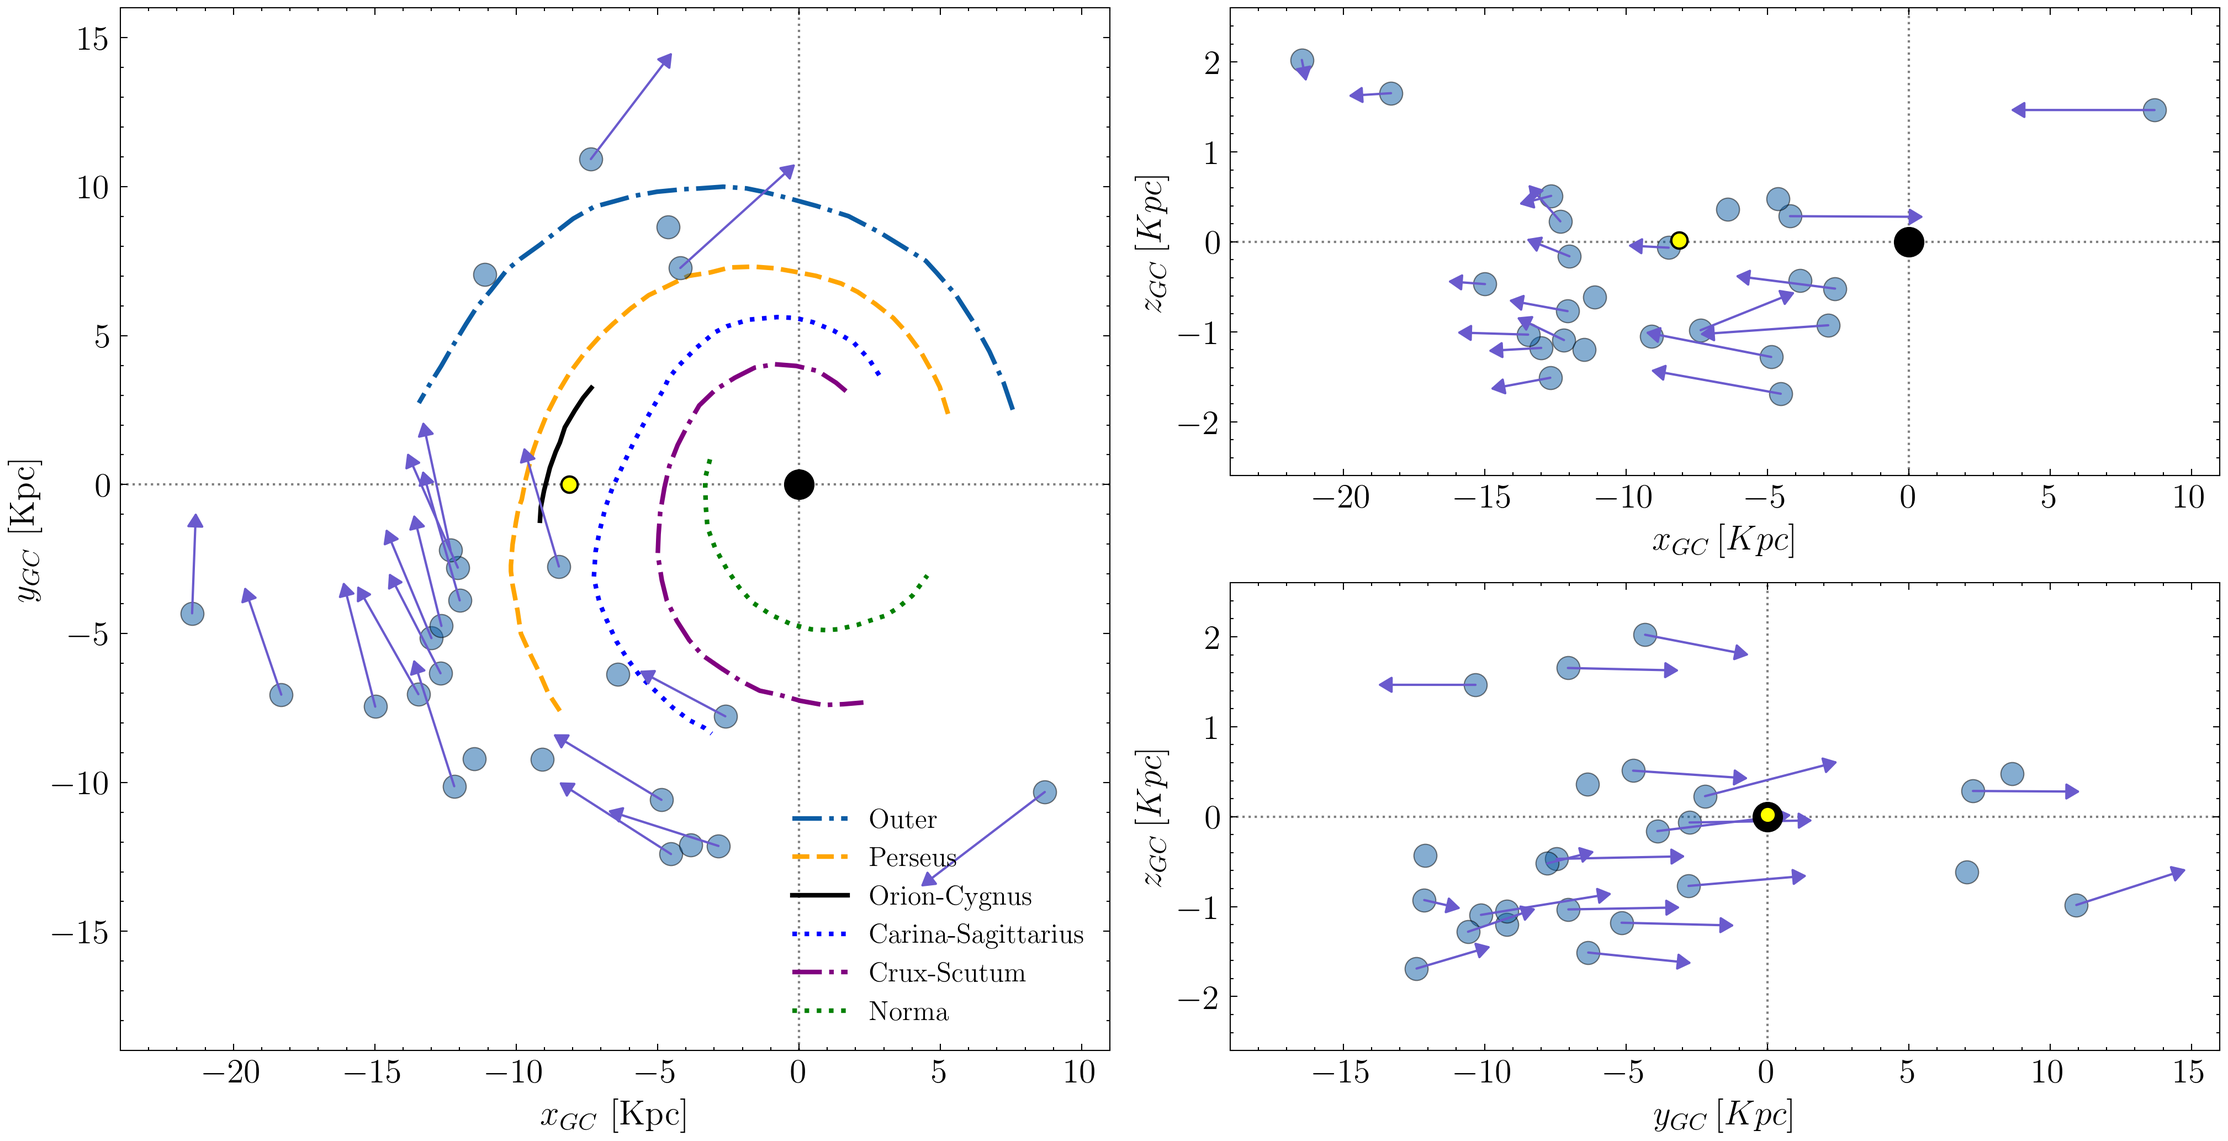
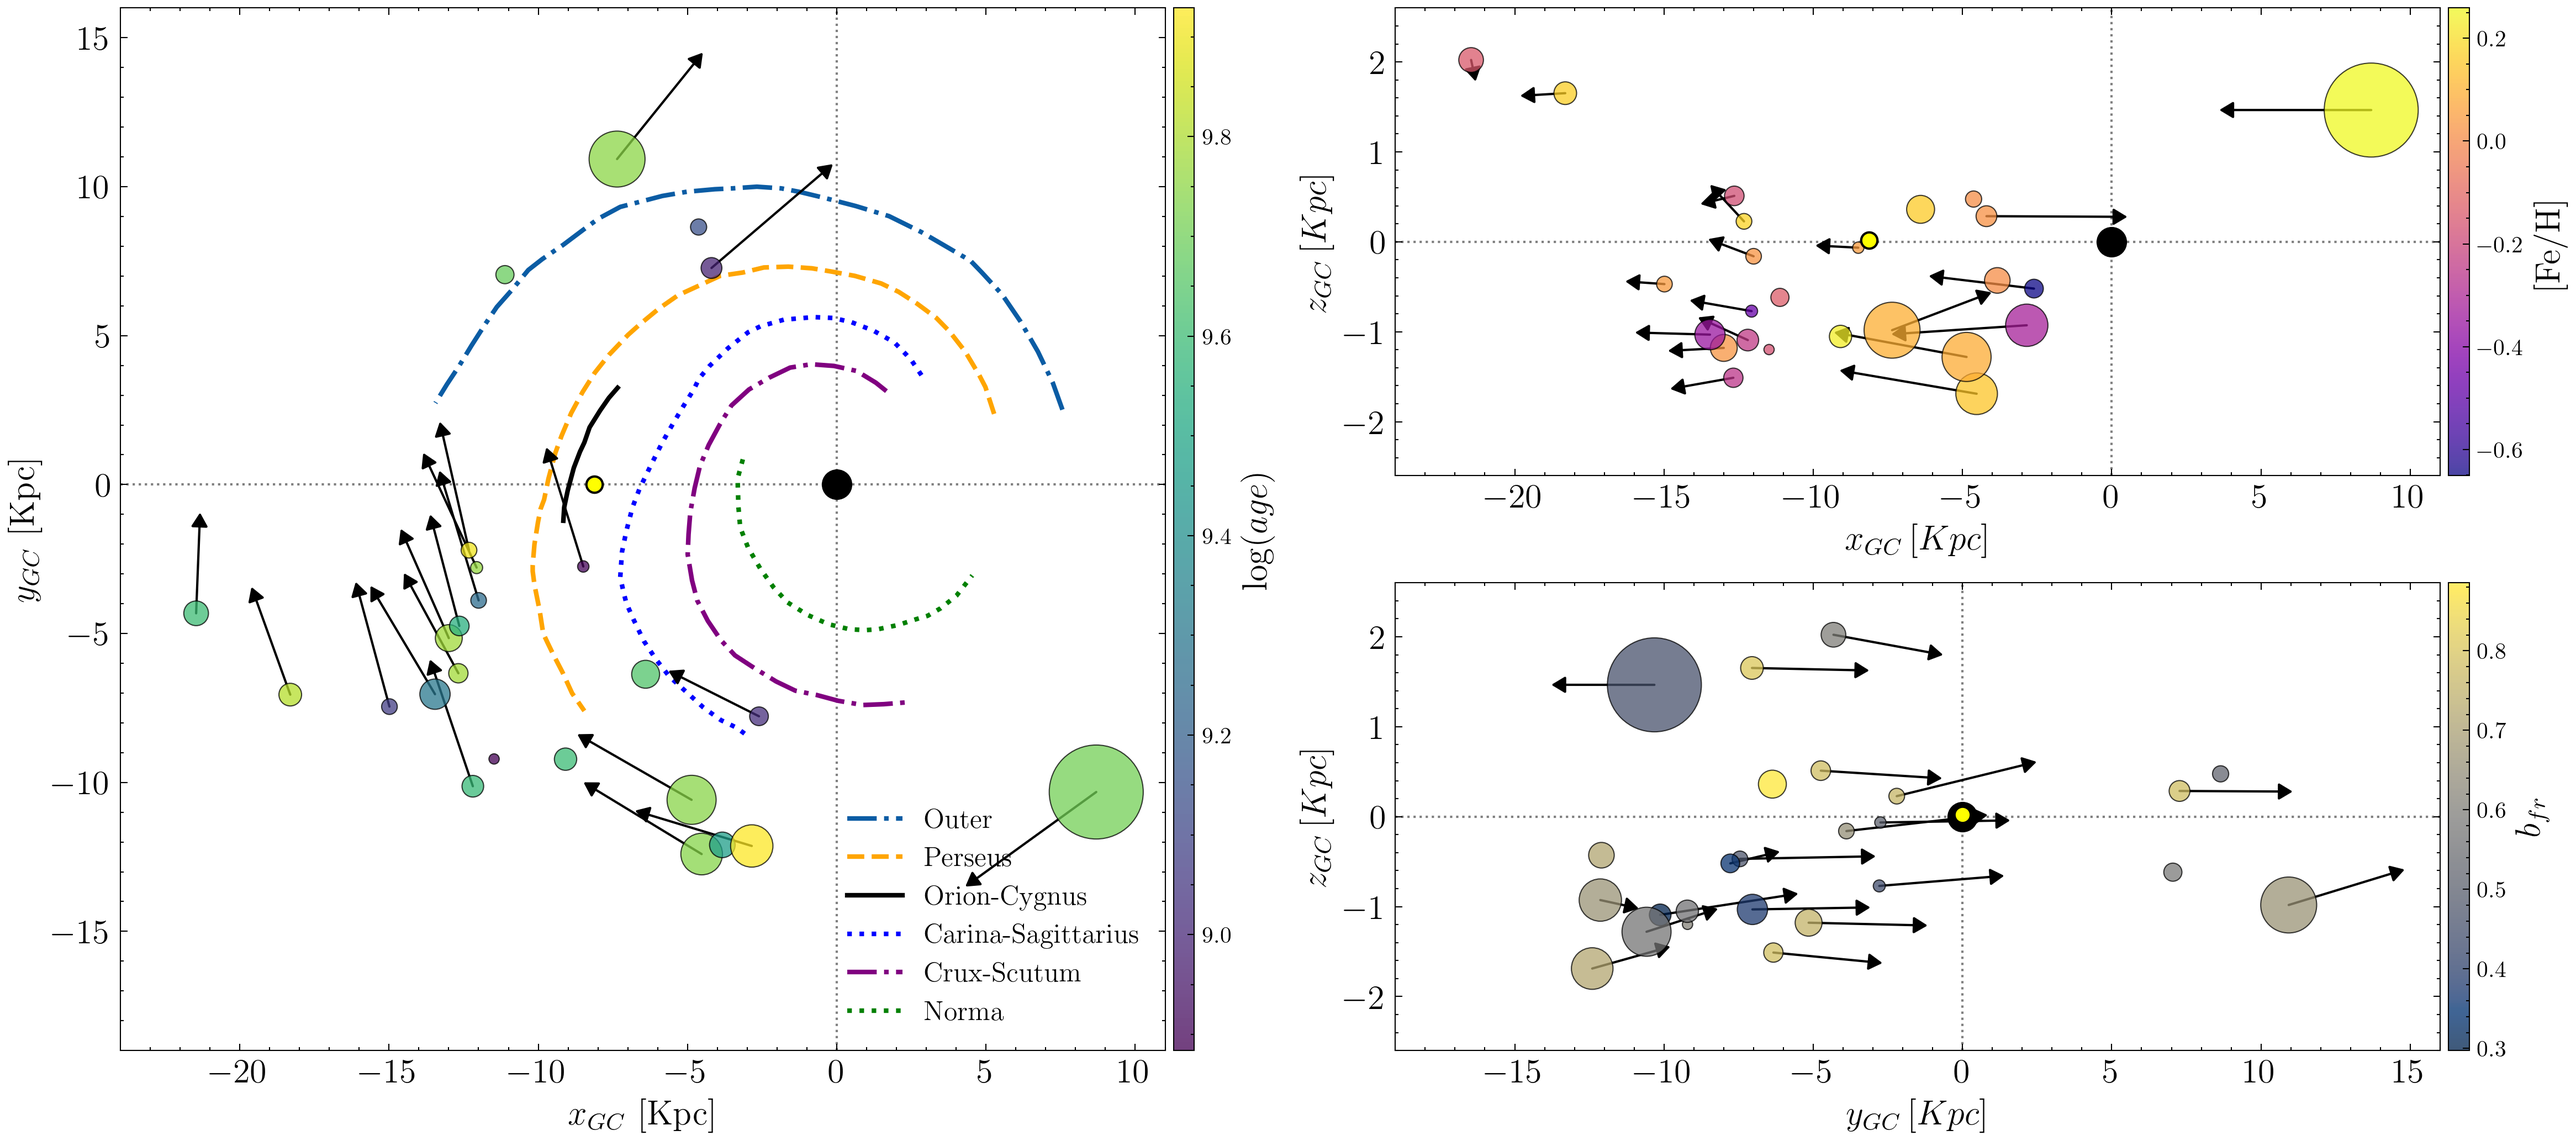
add colors to map

diff --git a/1_code/plot_XYmap_vector.py b/1_code/plot_XYmap_vector.py
@@ -2,11 +2,14 @@ from astropy import units as u
 from astropy.coordinates import SkyCoord
 import astropy.coordinates as coord
 from astropy.io import ascii
+# import matplotlib as mpl
 import matplotlib.pyplot as plt
 import matplotlib.gridspec as gridspec
+from mpl_toolkits.axes_grid1.axes_divider import make_axes_locatable
 import numpy as np
 from plot_pars import dpi, grid_x, grid_y
 from plot_XYmap import plotSpiral
+from plot_Fe_vs_R import ZtoFeH
 
 
 lit_data = """
@@ -49,7 +52,7 @@ def main(dpi=dpi):
     # Use this block to plot the ASteCA results instead ASteCA output data
     asteca_data = ascii.read('../2_pipeline/5_ASteCA/out/asteca_output.dat')
     asteca_names = list([_[3:].upper() for _ in asteca_data['NAME']])
-    asteca_dists = []
+    asteca_pars = []
     # d_84, d_16 = [], []
     for cl in lit_data['Cluster']:
         try:
@@ -57,17 +60,22 @@ def main(dpi=dpi):
             d_pc = 10**(.2 * (asteca_data[idx]['d_median'] + 5))
             # dis_84 = 10**(.2 * (asteca_data[idx]['d_84th'] + 5))/1000
             # dis_16 = 10**(.2 * (asteca_data[idx]['d_16th'] + 5))/1000
+            feh = ZtoFeH(asteca_data[idx]['z_median'])
+            age = asteca_data[idx]['a_median']
+            mass = asteca_data[idx]['M_median']
+            bfr = asteca_data[idx]['b_median']
         except ValueError:
-            d_pc = np.nan
-        asteca_dists.append(round(d_pc, 2))
+            feh, age, d_pc, mass, bfr = [np.nan] * 5
+        # asteca_dists.append(round(d_pc, 2))
+        asteca_pars.append([feh, age, d_pc, mass, bfr])
         # d_16.append(round(dis_16, 2))
         # d_84.append(round(dis_84, 2))
-    asteca_dists = np.array(asteca_dists)
+    asteca_pars = np.array(asteca_pars).T
 
-    plot(lit_data, asteca_dists)
+    plot(lit_data, asteca_pars)
 
 
-def plot(lit_data, asteca_dists):
+def plot(lit_data, asteca_pars):
     """
     Gridspec idea: http://www.sc.eso.org/~bdias/pycoffee/codes/20160407/
                    gridspec_demo.html
@@ -83,7 +91,7 @@ def plot(lit_data, asteca_dists):
     lon = lb.l.wrap_at(180 * u.deg).radian * u.radian
     lat = lb.b.radian * u.radian
 
-    xyz_kpc = xyzCoords(lit_data, asteca_dists, lon, lat, gc_frame)
+    xyz_kpc = xyzCoords(lit_data, asteca_pars[2], lon, lat, gc_frame)
     x_kpc, y_kpc, z_kpc, vx, vy, vz = xyz_kpc
 
     # Sun's coords according to the Galactocentric frame.
@@ -93,15 +101,19 @@ def plot(lit_data, asteca_dists):
 
     Xmin, Xmax, Ymin, Ymax, Zmin, Zmax = -24, 11, -19, 16, -2.6, 2.6
 
-    fig = plt.figure(figsize=(17, 17))
+    fig = plt.figure(figsize=(19, 17))
     gs = gridspec.GridSpec(grid_y, grid_x)
 
-    plt.subplot(gs[0:4, 0:4])
+    ax = plt.subplot(gs[0:4, 0:4])
     plt.axhline(0, ls=':', c='grey', zorder=-1)
     plt.axvline(0, ls=':', c='grey', zorder=-1)
 
-    plt.scatter(
-        x_kpc, y_kpc, alpha=.5, s=100, lw=.5, edgecolor='k', zorder=2.5)
+    im = plt.scatter(
+        x_kpc, y_kpc, alpha=.75, s=asteca_pars[3] / 100, lw=.5,
+        c=asteca_pars[1], edgecolor='k', zorder=2.5)
+        #, vmin=8.9, vmax=9.9)
+        # cmap="plasma")
+
     plotVectors(lit_data, x_kpc, y_kpc, vx, vy)
 
     # Plot Sun and center of Milky Way
@@ -118,11 +130,17 @@ def plot(lit_data, asteca_dists):
     plt.xticks(fontsize=15)
     plt.yticks(fontsize=15)
 
+    divider = make_axes_locatable(ax)
+    cax = divider.append_axes('right', size='2%', pad=0.05)
+    cbar = fig.colorbar(im, cax=cax, orientation='vertical')
+    cbar.set_label(r"$\log(age)$", fontsize=15)
+
     #
     # X_GC vs Z_GC
-    plt.subplot(gs[0:2, 4:8])
-    plt.scatter(
-        x_kpc, z_kpc, alpha=.5, s=100, lw=.5, edgecolor='k', zorder=2.5)
+    ax = plt.subplot(gs[0:2, 4:8])
+    im = plt.scatter(
+        x_kpc, z_kpc, alpha=.75, s=asteca_pars[3] / 100, lw=.5,
+        c=asteca_pars[0], edgecolor='k', zorder=2.5, cmap='plasma')
     plt.axvline(0, ls=':', c='grey', zorder=-1)
     plt.axhline(0, ls=':', c='grey', zorder=-1)
     plt.scatter(s_xys.x, s_xys.z, c='yellow', s=50, edgecolor='k', zorder=5)
@@ -134,12 +152,17 @@ def plot(lit_data, asteca_dists):
     plt.xticks(fontsize=15)
     plt.yticks(fontsize=15)
     plotVectors(lit_data, x_kpc, z_kpc, vx, vz)
+    divider = make_axes_locatable(ax)
+    cax = divider.append_axes('right', size='2%', pad=0.05)
+    cbar = fig.colorbar(im, cax=cax, orientation='vertical')
+    cbar.set_label("[Fe/H]", fontsize=15)
 
     #
     # Y_GC vs Z_GC
-    plt.subplot(gs[2:4, 4:8])
-    plt.scatter(
-        y_kpc, z_kpc, alpha=.5, s=100, lw=.5, edgecolor='k', zorder=2.5)
+    ax = plt.subplot(gs[2:4, 4:8])
+    im = plt.scatter(
+        y_kpc, z_kpc, alpha=.75, s=asteca_pars[3] / 100, lw=.5,
+        c=asteca_pars[4], edgecolor='k', zorder=2.5, cmap='cividis')
     plt.axvline(0, ls=':', c='grey', zorder=-1)
     plt.axhline(0, ls=':', c='grey', zorder=-1)
     plt.scatter(0., 0., c='k', marker='o', s=150, zorder=4)
@@ -151,6 +174,10 @@ def plot(lit_data, asteca_dists):
     plt.xticks(fontsize=15)
     plt.yticks(fontsize=15)
     plotVectors(lit_data, y_kpc, z_kpc, vy, vz)
+    divider = make_axes_locatable(ax)
+    cax = divider.append_axes('right', size='2%', pad=0.05)
+    cbar = fig.colorbar(im, cax=cax, orientation='vertical')
+    cbar.set_label(r"$b_{fr}$", fontsize=15)
 
     fig.tight_layout()
     fig.savefig(out_folder + 'MWmap_AS.png', dpi=dpi, bbox_inches='tight')
@@ -180,10 +207,12 @@ def plotVectors(lit_data, x, y, vx, vy):
             # The above made the arrow heads look weird
             # Source: https://stackoverflow.com/a/52613154/1391441
             txt = "-|>,head_width={},head_length={}".format(0.3, 0.5)
+            # color='slateblue'
             prop = dict(
-                arrowstyle=txt, color='slateblue', shrinkA=0, shrinkB=0)
+                arrowstyle=txt, color='k', shrinkA=0, shrinkB=0)
             plt.annotate(
-                "", xy=(xyf[i], yxf[i]), xytext=(xi, y[i]), arrowprops=prop)
+                "", xy=(xyf[i], yxf[i]), xytext=(xi, y[i]), arrowprops=prop,
+                zorder=0)
 
 
 def xyzCoords(data, dist_pc, lon, lat, gc_frame):
